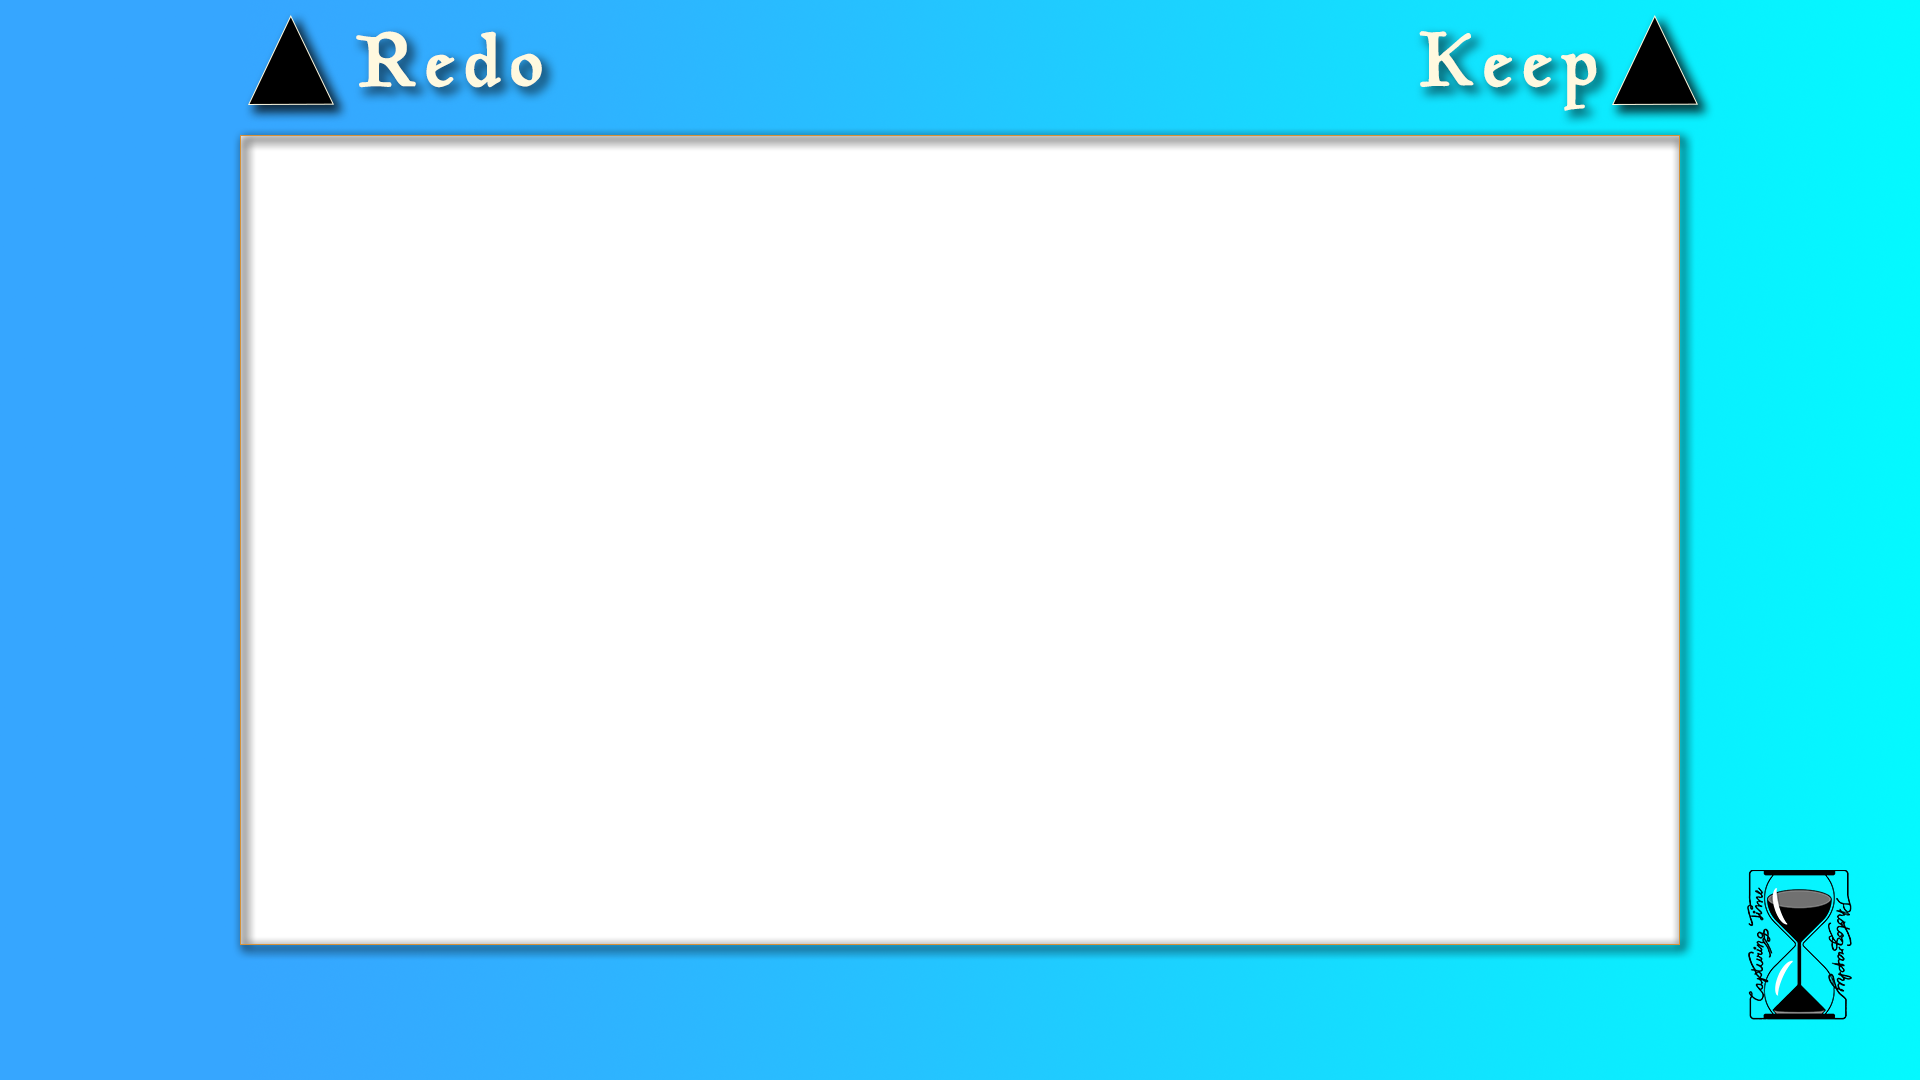
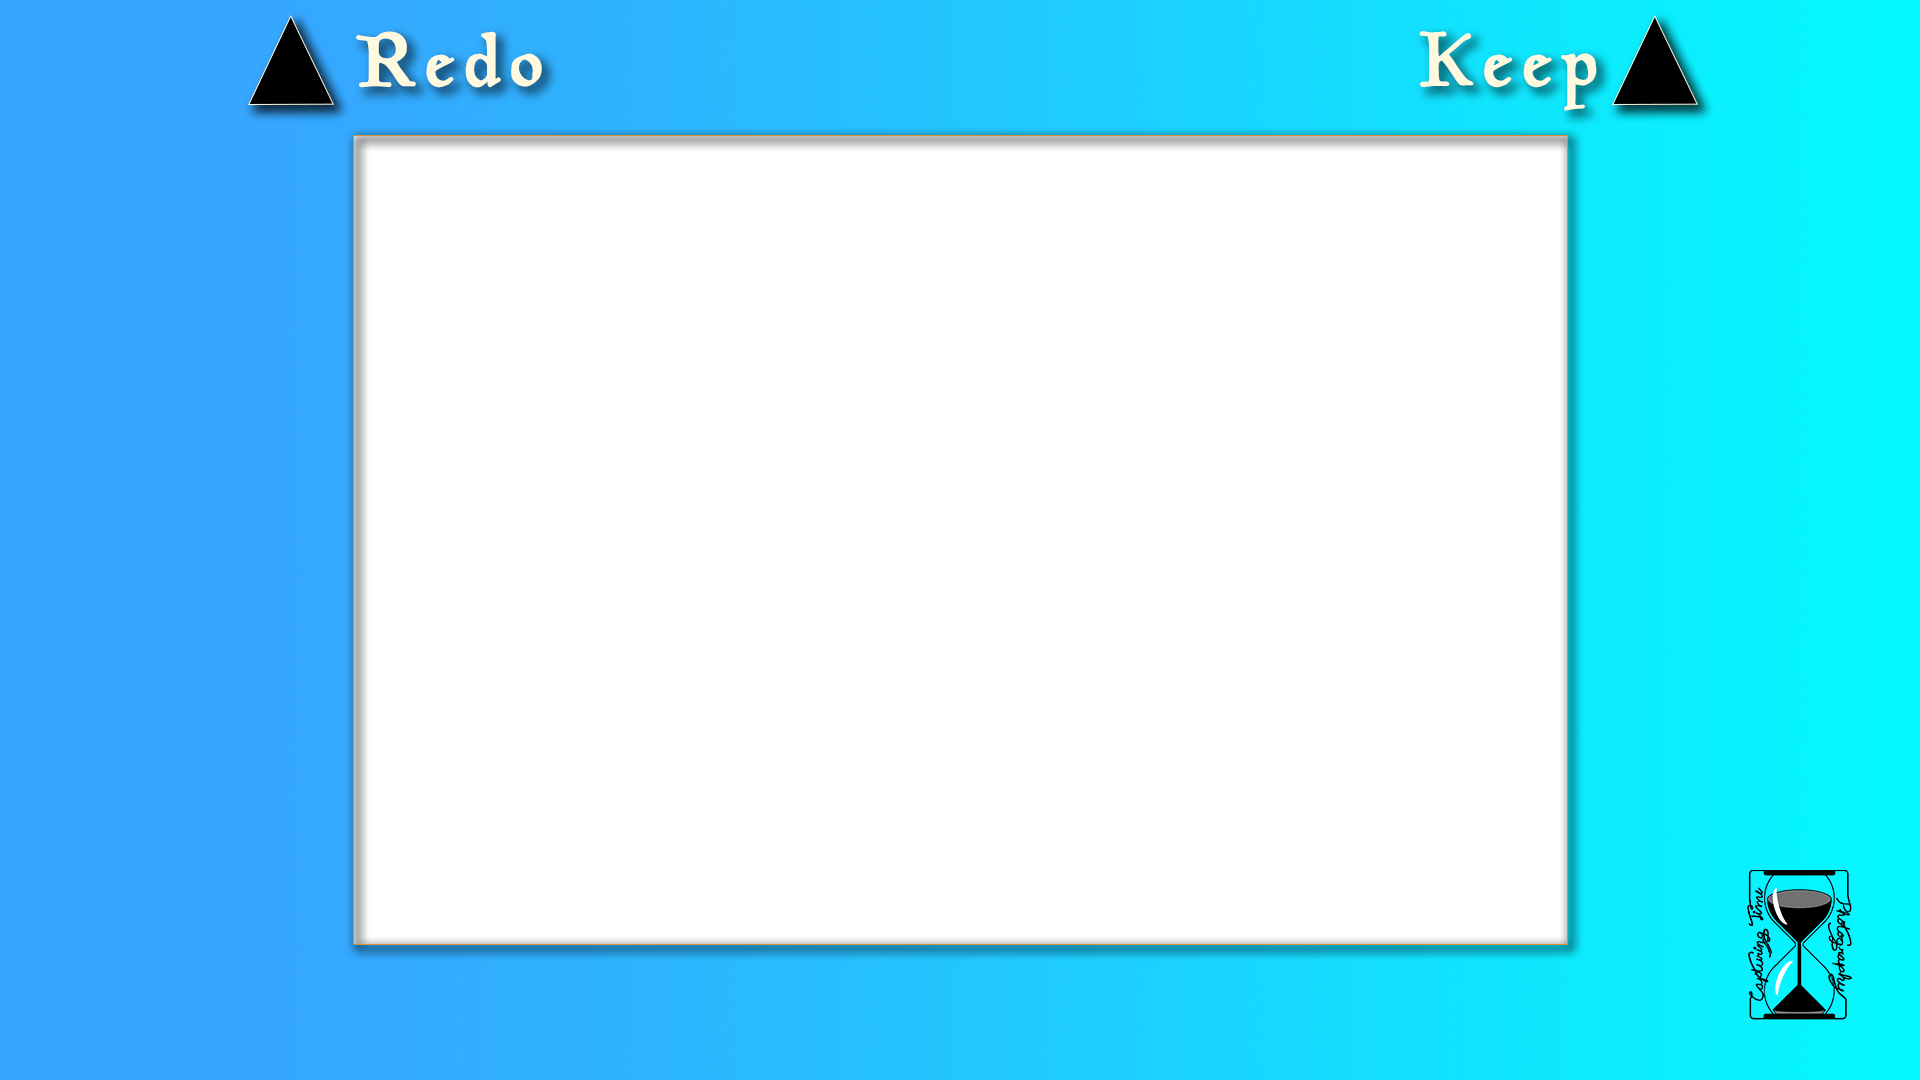
pre-changes prior to phase 1 implementation

Changed region(s): [[0.8125, 0.1222, 0.9062, 0.8861], [0.125, 0.1222, 0.1875, 0.8861]]

diff --git a/photobooth_web/mainscreen/templates/index.html b/photobooth_web/mainscreen/templates/index.html
@@ -24,7 +24,7 @@
 <body>
   <div class="imgbox">
     <!-- The Django way -->
-    <img src="{% static "img/main.png" %}"  class="center-fit">
+    <img src="{% static 'img/startup.png' %}"  class="center-fit">
   </div>
 </body>
 </html>

diff --git a/photobooth/booth_main.py b/photobooth/booth_main.py
@@ -523,6 +523,7 @@ class PhotoBooth:
                         if not last_decided:
                             continue
                         scroll.cancel()
+                        self.panel.clear()
                         decision = await self._review_shot(
                             last_decided, series_mode=False
                         )

diff --git a/ARCHITECTURE.md b/ARCHITECTURE.md
@@ -19,7 +19,13 @@ photobooth/           ← installable Python package
     rpi.py            ← RPi(Booth) — GPIO interrupt → asyncio event bridge
     camera.py         ← Camera — gphoto2 wrapper, async capture, per-camera startup config
     neopixel.py       ← Neopixel — ws281x panel animations (scroll, twinkle, rainbow…)
-    printer.py        ← Printer — ESC/POS receipt printer (PBM-8350U)
+    thermal_printer.py← ThermalPrinter — ESC/POS receipt printer (PBM-8350U).
+                         Renamed from the older `printer.py` / `Printer` once
+                         a second printer class was added; the old name was
+                         silently opinionated to a thermal device.
+    photo_printer.py  ← PhotoPrinter — CUPS-backed dye-sub photo printer
+                         (Canon Selphy CP1500). Shells out to `lp` — no
+                         Python CUPS bindings, keeps Buster/Py3.7 happy.
     uploader.py       ← Uploader — S3 upload, presigned URL, randomised key paths
     strip.py          ← PhotoStrip — Pillow compositor; supports multi-column tiling
     template_loader.py← TemplateLoader ABC + LocalTemplateLoader
@@ -41,7 +47,8 @@ PhotoBooth (booth_main.py)
 │   ├── next_event()              await next GPIO event string from queue
 │   ├── add_camera()              → Camera
 │   ├── add_neopixel()            → Neopixel
-│   └── add_printer()             → Printer
+│   ├── add_thermal_printer()     → ThermalPrinter   (receipt / QR)
+│   └── add_photo_printer()       → PhotoPrinter     (4×6 dye-sub)
 │
 ├── Camera (camera.py)
 │   ├── __init__(model, startup_config=None)
@@ -93,7 +100,8 @@ points: start of `_review_shot()`, start of `_series_capture_review()`, return t
 |---|---|
 | Pillow compositing (`PhotoStrip.compose`) | `loop.run_in_executor(None, fn, ...)` |
 | Image compression (`_compress_image`) | `loop.run_in_executor(None, fn, ...)` |
-| ESC/POS receipt printing (`_do_print`) | `loop.run_in_executor(None, fn, ...)` |
+| ESC/POS receipt printing (`_do_thermal_print`) | `loop.run_in_executor(None, fn, ...)` |
+| CUPS photo printing (`_do_photo_print`) | `loop.run_in_executor(None, fn, ...)` — `lp` subprocess |
 | gphoto2 capture (`capture_async`) | `asyncio.create_subprocess_exec` |
 
 ### Background tasks
@@ -127,6 +135,81 @@ CAMERA_STARTUP_CONFIG = {
 `Camera.__init__` applies each key via `gphoto2 --set-config key=value` after the base
 `capturetarget` config. To support a different camera, update both constants; no other
 code changes are required.
+
+---
+
+## Printers
+
+The booth drives two physically and protocol-distinct printers. They share
+nothing at the wire level, so they are modelled as two separate classes
+rather than a single `PrinterBackend` ABC — forcing a common interface
+would collapse to a single `print_something()` method that means different
+things on each side, which hurts more than it helps.
+
+| Class | Module | Device | Protocol | Backend |
+|---|---|---|---|---|
+| `ThermalPrinter` | `thermal_printer.py` | PBM-8350U thermal receipt printer | ESC/POS over raw USB endpoint | `python-escpos` → `escpos.printer.Usb` |
+| `PhotoPrinter` | `photo_printer.py` | Canon Selphy CP1500 dye-sub photo printer | CUPS print queue | system `lp` binary via `subprocess` |
+
+### Why `ThermalPrinter` (renamed from `Printer`)
+
+The original `printer.py` / `Printer` class predates any plan to add a
+second printer. Its constructor, `PRINTER_MAP`, and entire method surface
+(`text`, `ln`, `cut`, `qr`, `barcode`) are opinionated to a thermal
+receipt device and are thin wrappers around `escpos.printer.Usb`. Once a
+second printer class entered the design, the bare name `Printer` became
+actively misleading — anyone reading `self.printer.qr(...)` would
+reasonably assume the printer abstraction is generic, when in fact it
+hard-binds to ESC/POS.
+
+The rename `Printer` → `ThermalPrinter`, `PRINTER_MAP` → `THERMAL_PRINTER_MAP`,
+and `Booth.add_printer` → `Booth.add_thermal_printer` makes the protocol
+coupling visible at every call site. The receipt-printing code path is
+otherwise unchanged.
+
+### `PhotoPrinter` — CUPS via `lp`
+
+`PhotoPrinter` does not import `pycups`. It shells out to the system `lp`
+binary via `subprocess.run`. Two reasons:
+
+1. **No C-extension build on Buster/Py3.7.** The live booth's Python is
+   3.7 on Buster; `rawpy` already failed to build there (see auto-memory).
+   Adding a second compiled dependency for what amounts to `lp -d <queue>
+   <file>` would be gratuitous.
+2. **CUPS is already the integration surface.** The CP1500 driver
+   (Gutenprint's `selphy_print` backend, or Solomon Peachy's standalone
+   build on Buster — see BACKLOG) lives behind a CUPS queue. Whatever
+   talks to `lp` is portable across driver versions for free.
+
+Construction takes a CUPS queue name (e.g. `Canon_Selphy_CP1500`) plus a
+model key into `PHOTO_PRINTER_MAP` that carries default `lp` options
+(`media=Postcard.Fullbleed`, fit-to-page, etc.). At startup,
+`_verify_queue()` calls `lpstat -p <queue>` and raises if the queue is
+missing — fail fast rather than discover at first print.
+
+### Wiring into the capture flow
+
+```
+PhotoStrip.compose(shots, strip_path)        ← single-strip JPEG  (S3 + kiosk review)
+PhotoStrip.expand_for_print(strip_path,      ← column-tiled JPEG  (print only)
+                            print_path)
+ThermalPrinter.qr(url) / .text(...) / .cut() ← receipt with QR
+PhotoPrinter.print_image(print_path)         ← lp -d <queue> -o media=... <file>
+```
+
+Receipt and photo prints run as **independent** `run_in_executor` calls
+from the final-screen handler — they are fired in parallel since the
+devices share no resource. A failure in either path is logged and
+swallowed so a paper jam on one printer never blocks the other (or the
+booth's return to attract).
+
+### CP1500 system prerequisites (per Pi, one-time)
+
+CUPS + Gutenprint (plus the queue definition) are not Python deps and
+are not handled by `pip install`. They are documented under "Installing
+on a Pi" in the package README, and the BACKLOG entry for the CP1500
+workstream tracks the Buster-specific Gutenprint version risk
+(CP1500 hardware postdates Buster's apt Gutenprint package).
 
 ---
 
@@ -213,9 +296,11 @@ If `columns <= 1`, no duplication is needed and the method is a pass-through:
 `input_path` is returned unchanged and no file is written. Callers can use the
 returned path unconditionally without branching on column count.
 
-Not currently invoked from `booth_main.py` — the receipt printer only prints a
-thermal QR receipt today. When a 4×6 photo-printer integration is added, the
-print path will call `expand_for_print()` before sending bytes to the printer.
+Called from `booth_main.py` immediately after `compose()` whenever a
+`PhotoPrinter` is online; the resulting print-ready file is what
+`PhotoPrinter.print_image()` hands to `lp`. The single-strip output from
+`compose()` stays the source of truth for the S3 upload and the kiosk
+review screen — only the print path uses the column-tiled variant.
 
 ### Mode selection (`booth_main.py` constants)
 
@@ -271,7 +356,7 @@ flowchart TD
     COMPOSE --> FINAL
 
     FINAL["single_final screen\n60 s hold"]
-    FINAL -->|"blue / green — print"| PRINT["Upload S3 + Print receipt + QR"]
+    FINAL -->|"blue / green — print"| PRINT["Upload S3 +\nThermalPrinter (receipt + QR) +\nPhotoPrinter (4×6 strip)"]
     FINAL -->|"red / timeout"| UPLOAD_ONLY["Upload S3 only"]
     PRINT --> ATTRACT
     UPLOAD_ONLY --> ATTRACT
@@ -306,9 +391,9 @@ flowchart TD
     RESHOW -->|"red — redo that slot"| POP["Pop last shot from list"]
     POP --> COUNTDOWN
 
-    COMPOSE["Compose strip\n(run_in_executor)\ncolumn-tile if columns > 1"]
+    COMPOSE["Compose strip\n(run_in_executor)\nexpand_for_print if columns > 1"]
     COMPOSE --> FINAL["series_final screen\n60 s hold"]
-    FINAL -->|"blue / green — print"| PRINT["Upload S3 + Print receipt + QR"]
+    FINAL -->|"blue / green — print"| PRINT["Upload S3 +\nThermalPrinter (receipt + QR) +\nPhotoPrinter (4×6 strip)"]
     FINAL -->|"red / timeout"| UPLOAD_ONLY["Upload S3 only"]
     PRINT --> ATTRACT
     UPLOAD_ONLY --> ATTRACT
@@ -382,7 +467,8 @@ ImportError` in `__init__.py`. The few tests that need `board` (`test_booth_main
 | `test_booth_main_env.py` | Defaults + overrides for all 6 `BOOTH_*` constants. |
 | `test_env_example_consistency.py` | Cross-repo: every `BOOTH_*` key in `rpi_provisioning/booth_boot/resources/booth.env.example` is consumed by `booth_main` / `logging_config`, and vice versa. Catches doc-vs-code drift. |
 | `test_camera.py` | `run_local_cmd` (error path → `logger.error`), `_build_filename`, `check_gphoto2`, `check_dir_rw_or_make`, `_read_exif_datetime` (never-raises guarantee). |
-| `test_printer.py` | `PRINTER_MAP` resolution (default + PBM-8350U), escpos passthroughs, `ln()` edge cases. `python-escpos`-gated. |
+| `test_thermal_printer.py` | `THERMAL_PRINTER_MAP` resolution (default + PBM-8350U), escpos passthroughs, `ln()` edge cases. `python-escpos`-gated. Renamed from `test_printer.py` alongside the `Printer` → `ThermalPrinter` rename. |
+| `test_photo_printer.py` | `PHOTO_PRINTER_MAP` resolution (default + CP1500), `lp` argv construction, job-ID parsing, missing-queue and missing-`lp` error paths. `subprocess.run` mocked end-to-end — no CUPS required at test time. |
 | `test_series_flow.py` | `PhotoBooth._series_capture_review` — all six scenarios (continue, start_over, undo-redo, undo-keep, re-affirm-keep, re-affirm-redo). Pins the buffer-after-re-review contract. |
 
 Hardware-tied "tests" (`tests/blink_thread.py`, `cntdwn_np_test.py`, etc.) are

diff --git a/BACKLOG.md b/BACKLOG.md
@@ -285,3 +285,73 @@ CAMERA_STARTUP_CONFIG = {
 Trade-off: sensor stays warm during long idle days; potentially
 shortens shutter life on a multi-day event. Worth measuring before
 committing.
+
+---
+
+## Canon Selphy CP1500 photo printer integration + `Printer` → `ThermalPrinter` rename
+
+### Why
+
+The booth's only "printer" today is a PBM-8350U thermal device that
+prints a marketing receipt with a QR code linking to the S3-hosted
+photo — the customer never walks away with a paper print of the actual
+shot. Adding a Canon Selphy CP1500 (USB dye-sub, 4×6) makes the booth a
+real "leave with a print in your hand" experience without removing the
+receipt's marketing role.
+
+`PhotoStrip.expand_for_print()` already exists for exactly this — it
+duplicates a 2×6 strip into a 4×6 sheet — but nothing in `booth_main.py`
+calls it today.
+
+### Behavior
+
+- **Add `PhotoPrinter` alongside `ThermalPrinter`.** Both run per
+  capture. Receipt + photo are independent `run_in_executor` calls; a
+  failure on one printer never blocks the other or the return to
+  attract.
+- **Rename `Printer` → `ThermalPrinter`** at the same time. The
+  existing class is opinionated to ESC/POS / thermal hardware
+  (`escpos.printer.Usb`, `text` / `cut` / `qr` / `barcode`); the bare
+  name became misleading once a second printer joined the design. Rename
+  scope: class, module file (`printer.py` → `thermal_printer.py`),
+  `PRINTER_MAP` → `THERMAL_PRINTER_MAP`, `Booth.add_printer` →
+  `Booth.add_thermal_printer`, `tests/test_printer.py` →
+  `tests/test_thermal_printer.py`, and all call sites in
+  `booth_main.py`. No behavioral change.
+- **CUPS via `lp`, not `pycups`.** `PhotoPrinter` shells out to the
+  system `lp` binary via `subprocess.run`. No C-extension build on
+  Buster/Py3.7 (where `rawpy` already broke), and CUPS is already the
+  integration surface either way.
+- **Wire `expand_for_print` into the flow.** Currently unused; called
+  immediately after `compose()` when a `PhotoPrinter` is online. The
+  single-strip output stays the source of truth for the S3 upload and
+  the kiosk review screen.
+
+### Risks
+
+1. **Buster Gutenprint is too old for the CP1500.** Buster ships
+   Gutenprint 5.3.3 (Sept 2018); the CP1500 hardware shipped Sept 2022.
+   Verify before starting code by SSHing to the live booth and running
+   `lpinfo --make-and-model "Canon CP1500" -m | grep -i cp1500`. If
+   empty, build Solomon Peachy's standalone `selphy_print` from source
+   (https://git.shaftnet.org/cgit/selphy_print.git/) — small C build,
+   no Python deps, registers as a CUPS backend.
+2. **Pi3-class CPU on the live booth.** Dye-sub data streams are
+   ~10–20 MB per 4×6; CUPS rasterization can take 5–15 s on older ARM.
+   Mitigation: fire `_do_photo_print` early, in parallel with upload.
+3. **`expand_for_print` has never run in production.** If any active
+   template has `columns > 1` and the geometry was authored without
+   testing the 4×6 output, the first print may have unexpected margins.
+   Mitigation: dry-run with `lp -o job-hold-until=indefinite` during
+   initial bring-up.
+4. **Ribbon/paper exhaustion is silent in the UI.** CP1500 has a
+   fixed-count consumable. Out of scope for the initial PR; worth a
+   follow-up that polls `lpstat -W not-completed` and lights a panel
+   LED on stall.
+
+### Reference
+
+Full plan including file-by-file change list lives at
+`/home/ian/.claude/plans/how-easily-could-we-zazzy-whistle.md`. The
+two-class rationale and the CUPS-via-`lp` decision are captured in
+ARCHITECTURE.md under "Printers".

diff --git a/README.md b/README.md
@@ -1,8 +1,10 @@
 # Photobooth
 
 Raspberry Pi 4B photobooth framework for Capturing Time Photography. Supports
-single-shot and multi-shot strip modes with per-shot review, S3 upload, and ESC/POS
-receipt printing.
+single-shot and multi-shot strip modes with per-shot review, S3 upload, ESC/POS
+receipt printing, and (planned) Canon Selphy CP1500 4×6 dye-sub photo printing
+via CUPS. See ARCHITECTURE.md → "Printers" and BACKLOG.md for the photo-printer
+workstream.
 
 ![Raspberry Pi Circuit Diagram](./img/RPi-4B-circuit-diagram.png "Raspberry Pi 4B")
 
@@ -11,7 +13,9 @@ receipt printing.
 - Raspberry Pi 4B (Raspberry Pi OS, Python 3.7+)
 - Canon EOS DSLR via USB / gphoto2
 - NeoPixel (ws281x) LED panel — 8×32
-- PBM-8350U thermal receipt printer (ESC/POS)
+- PBM-8350U thermal receipt printer (ESC/POS) — driven by `ThermalPrinter`
+- Canon Selphy CP1500 dye-sub photo printer (USB, CUPS + Gutenprint) — driven
+  by `PhotoPrinter` (planned; see BACKLOG.md)
 - Three momentary buttons on GPIO 23 (green), 24 (red), 25 (blue)
 
 ## Package Structure
